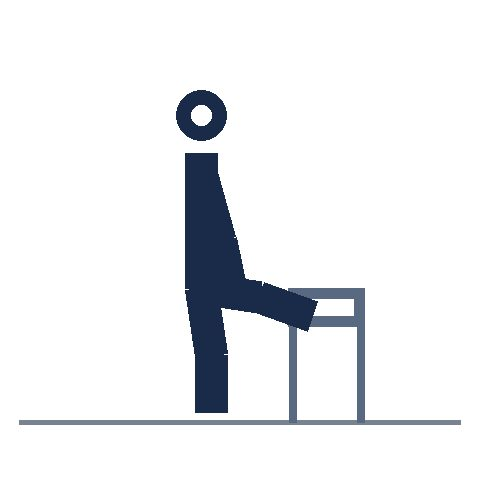
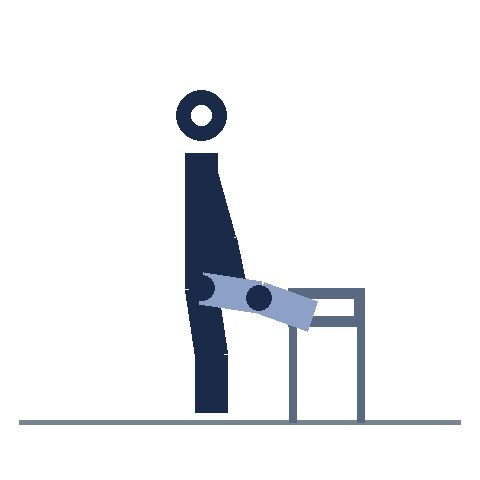
Import: import/p9m

Changed region(s): [[0.4062, 0.5625, 0.6562, 0.6875]]

diff --git a/tools/illustrations/gen.py b/tools/illustrations/gen.py
@@ -6,6 +6,7 @@ import json, math, pathlib
 from PIL import Image, ImageDraw
 
 INK = (26, 43, 74)       # figura
+FAR = (140, 160, 200)  # extremidad lejana/segunda
 GROUND = (120, 130, 145)
 EQUIP = (90, 105, 130)
 W = 480
@@ -28,14 +29,16 @@ def draw_fig(dr, j, lw=7):
     else:
         seg(j['neck'], j['hip'])
     seg(j['neck'], j['shoulder']) if False else None
-    # brazo (y segundo brazo opcional)
+    # brazo (y segundo brazo opcional, en tono claro)
     seg(j['shoulder'], j['elbow']); seg(j['elbow'], j['hand'])
     if 'elbow2' in j:
-        seg(j['shoulder'], j['elbow2']); seg(j['elbow2'], j['hand2'])
-    # pierna (y segunda pierna opcional)
+        dr.line([P(*j['shoulder']), P(*j['elbow2'])], fill=FAR, width=int(lw * SC), joint='curve')
+        dr.line([P(*j['elbow2']), P(*j['hand2'])], fill=FAR, width=int(lw * SC), joint='curve')
+    # pierna (y segunda pierna opcional, en tono claro)
     seg(j['hip'], j['knee']); seg(j['knee'], j['foot'])
     if 'knee2' in j:
-        seg(j['hip'], j['knee2']); seg(j['knee2'], j['foot2'])
+        dr.line([P(*j['hip']), P(*j['knee2'])], fill=FAR, width=int(lw * SC), joint='curve')
+        dr.line([P(*j['knee2']), P(*j['foot2'])], fill=FAR, width=int(lw * SC), joint='curve')
     # articulaciones
     for k in ('shoulder', 'elbow', 'hip', 'knee', 'elbow2', 'knee2'):
         if k in j: dot(j[k])
@@ -185,26 +188,28 @@ POSES = {
   ],
   # russian twist (sentado en V; 0 = manos a un lado; 1 = al otro)
   'russian_twist': [
-    dict(head=(44, 40), neck=(42, 48), shoulder=(42, 52), elbow=(34, 60), hand=(28, 66),
-         elbow2=(35, 63), hand2=(29, 69),
-         hip=(50, 80), knee=(64, 68), foot=(74, 78)),
-    dict(head=(44, 40), neck=(42, 48), shoulder=(42, 52), elbow=(52, 60), hand=(60, 66),
-         elbow2=(51, 63), hand2=(59, 69),
-         hip=(50, 80), knee=(64, 68), foot=(74, 78)),
+    dict(head=(40, 38), neck=(40, 46), shoulder=(41, 50), elbow=(32, 58), hand=(24, 64),
+         elbow2=(33, 61), hand2=(25, 67),
+         hip=(50, 80), knee=(64, 68), foot=(74, 76)),
+    dict(head=(40, 38), neck=(40, 46), shoulder=(41, 50), elbow=(52, 58), hand=(62, 62),
+         elbow2=(51, 61), hand2=(61, 65),
+         hip=(50, 80), knee=(64, 68), foot=(74, 76)),
   ],
   # dead bug (tumbado boca arriba; 0 = brazos arriba y piernas en mesa; 1 = brazo y pierna contrarios extendidos)
   'dead_bug': [
     dict(head=(20, 78), neck=(26, 80), shoulder=(30, 79), elbow=(30, 62), hand=(30, 50),
          hip=(54, 80), knee=(56, 62), foot=(70, 64)),
     dict(head=(20, 78), neck=(26, 80), shoulder=(30, 79), elbow=(18, 72), hand=(8, 78),
-         hip=(54, 80), knee=(68, 74), foot=(84, 82)),
+         elbow2=(32, 62), hand2=(32, 50),
+         hip=(54, 80), knee=(68, 74), foot=(84, 82), knee2=(56, 62), foot2=(70, 64)),
   ],
   # bird dog (cuadrupedia; 1 = brazo y pierna contrarios extendidos)
   'bird_dog': [
     dict(head=(24, 52), neck=(29, 54), shoulder=(36, 55), elbow=(37, 70), hand=(37, 86),
          hip=(64, 56), knee=(64, 86), foot=(76, 86), spineMid=(50, 56)),
     dict(head=(16, 46), neck=(23, 50), shoulder=(36, 54), elbow=(26, 46), hand=(12, 42),
-         hip=(64, 56), knee=(78, 56), foot=(90, 52), spineMid=(50, 55)),
+         elbow2=(37, 70), hand2=(37, 86),
+         hip=(64, 56), knee=(78, 56), foot=(90, 52), knee2=(64, 86), foot2=(76, 86), spineMid=(50, 55)),
   ],
   # pajaros con banda (0 = brazos al frente juntos; 1 = brazos abiertos, banda estirada)
   'pajaros': [
@@ -231,10 +236,10 @@ POSES = {
   ],
   # curl de biceps con banda (pisando la banda)
   'curl_banda': [
-    dict(head=(44, 18), neck=(44, 26), shoulder=(44, 30), elbow=(45, 44), hand=(46, 58),
-         hip=(44, 58), knee=(45, 72), foot=(44, 86)),
-    dict(head=(44, 18), neck=(44, 26), shoulder=(44, 30), elbow=(45, 46), hand=(40, 30),
-         hip=(44, 58), knee=(45, 72), foot=(44, 86)),
+    dict(head=(44, 16), neck=(44, 24), shoulder=(44, 28), elbow=(45, 44), hand=(46, 60),
+         hip=(44, 56), knee=(45, 70), foot=(44, 86)),
+    dict(head=(44, 16), neck=(44, 24), shoulder=(44, 28), elbow=(44, 48), hand=(38, 28),
+         hip=(44, 56), knee=(45, 70), foot=(44, 86)),
   ],
   # face pull con banda (anclaje a la altura de la cara)
   'face_pull_banda': [
@@ -313,10 +318,10 @@ POSES = {
   ],
   # hip thrust (espalda alta en el banco; 0 = cadera abajo; 1 = cadera arriba)
   'hip_thrust': [
-    dict(head=(22, 52), neck=(27, 55), shoulder=(32, 56), elbow=(36, 62), hand=(40, 64),
-         hip=(50, 72), knee=(62, 70), foot=(64, 86)),
-    dict(head=(22, 50), neck=(27, 52), shoulder=(32, 54), elbow=(36, 58), hand=(42, 60),
-         hip=(50, 56), knee=(62, 64), foot=(64, 86)),
+    dict(head=(22, 52), neck=(27, 55), shoulder=(32, 56), elbow=(36, 64), hand=(42, 68),
+         hip=(48, 78), knee=(62, 74), foot=(64, 86)),
+    dict(head=(22, 48), neck=(27, 51), shoulder=(32, 53), elbow=(38, 58), hand=(46, 58),
+         hip=(52, 54), knee=(64, 62), foot=(64, 86)),
   ],
   # abduccion de cadera tumbado de lado (0 = piernas juntas; 1 = pierna superior arriba)
   'abduccion_cadera_lateral': [
@@ -401,16 +406,16 @@ POSES = {
   'estiramiento_cuadriceps': [
     dict(head=(46, 16), neck=(46, 24), shoulder=(46, 28), elbow=(50, 42), hand=(53, 54),
          hip=(46, 56), knee=(47, 70), foot=(48, 86)),
-    dict(head=(46, 16), neck=(46, 24), shoulder=(46, 28), elbow=(42, 40), hand2=(44, 58),
-         elbow2=(41, 46), hand=(53, 54),
-         hip=(46, 56), knee=(47, 70), foot=(48, 86), knee2=(45, 74), foot2=(44, 58)),
+    dict(head=(46, 16), neck=(46, 24), shoulder=(46, 28), elbow=(52, 40), hand=(55, 52),
+         elbow2=(40, 42), hand2=(42, 54),
+         hip=(46, 56), knee=(47, 70), foot=(48, 86), knee2=(46, 72), foot2=(42, 55)),
   ],
   # estiramiento de pecho en la pared (0 = brazo apoyado; 1 = giro alejandose)
   'estiramiento_pecho': [
-    dict(head=(52, 20), neck=(52, 28), shoulder=(52, 32), elbow=(62, 34), hand=(74, 36),
-         hip=(52, 60), knee=(53, 72), foot=(55, 86)),
-    dict(head=(46, 20), neck=(46, 28), shoulder=(46, 32), elbow=(58, 34), hand=(74, 36),
-         hip=(48, 60), knee=(50, 72), foot=(52, 86)),
+    dict(head=(54, 20), neck=(54, 28), shoulder=(54, 32), elbow=(64, 34), hand=(76, 36),
+         hip=(54, 60), knee=(55, 72), foot=(57, 86)),
+    dict(head=(40, 22), neck=(42, 30), shoulder=(44, 34), elbow=(60, 34), hand=(76, 36),
+         hip=(44, 62), knee=(36, 74), foot=(30, 86), knee2=(50, 74), foot2=(54, 86)),
   ],
 }
 PROPS = {
@@ -432,12 +437,12 @@ PROPS = {
   'sentadilla_bulgara': [[('bench', 66, 60, 14, 6)], [('bench', 66, 60, 14, 6)]],
   'buenos_dias': [[], []],
   'curl_femoral_suelo': [[], []],
-  'hip_thrust': [[('bench', 16, 52, 12, 8), ('kb', 50, 66)], [('bench', 16, 52, 12, 8), ('kb', 50, 50)]],
+  'hip_thrust': [[('bench', 16, 52, 12, 8), ('kb', 48, 72)], [('bench', 16, 52, 12, 8), ('kb', 52, 48)]],
   'abduccion_cadera_lateral': [[], []],
   'pajaros': [[('band', (64, 32), (63, 36))], [('band', (70, 42), (20, 42))]],
   'remo_banda': [[('band', (61, 72), (72, 82))], [('band', (38, 74), (72, 82))]],
   'jalon_banda': [[('band', (56, 8), (64, 2))], [('band', (44, 44), (64, 2))]],
-  'curl_banda': [[('band', (46, 58), (50, 86))], [('band', (40, 30), (50, 86))]],
+  'curl_banda': [[('band', (46, 60), (52, 86))], [('band', (38, 28), (52, 86))]],
   'face_pull_banda': [[('wall', 82), ('band', (82, 30), (62, 32))], [('wall', 82), ('band', (82, 30), (42, 28))]],
   'press_pecho_banda': [[('band', (52, 40), (38, 34))], [('band', (72, 36), (38, 34))]],
   'aperturas_banda': [[('band', (68, 44), (22, 44))], [('band', (64, 36), (40, 30))]],
